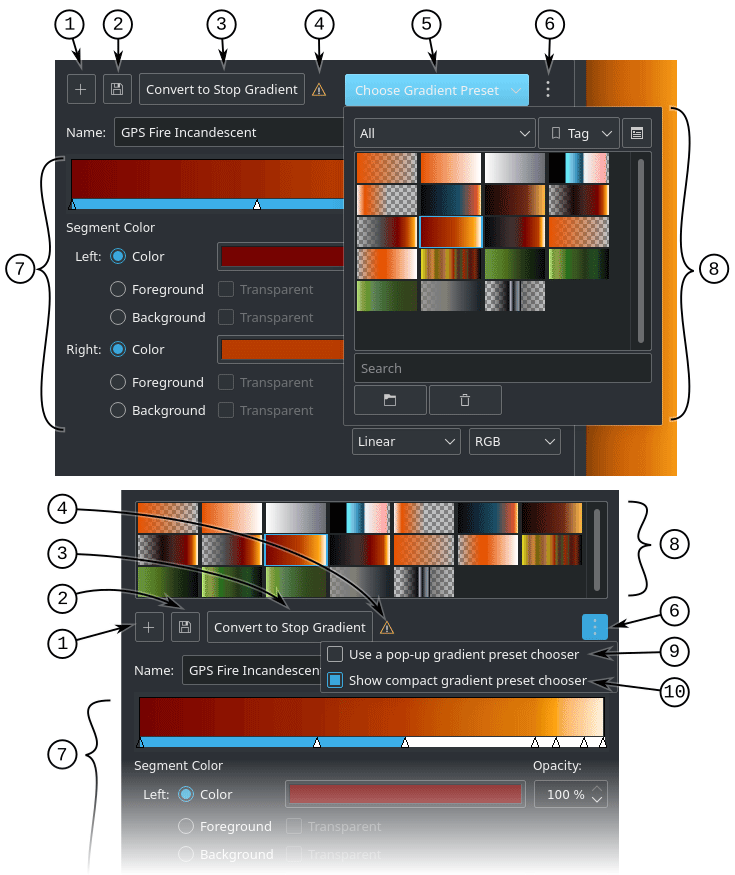
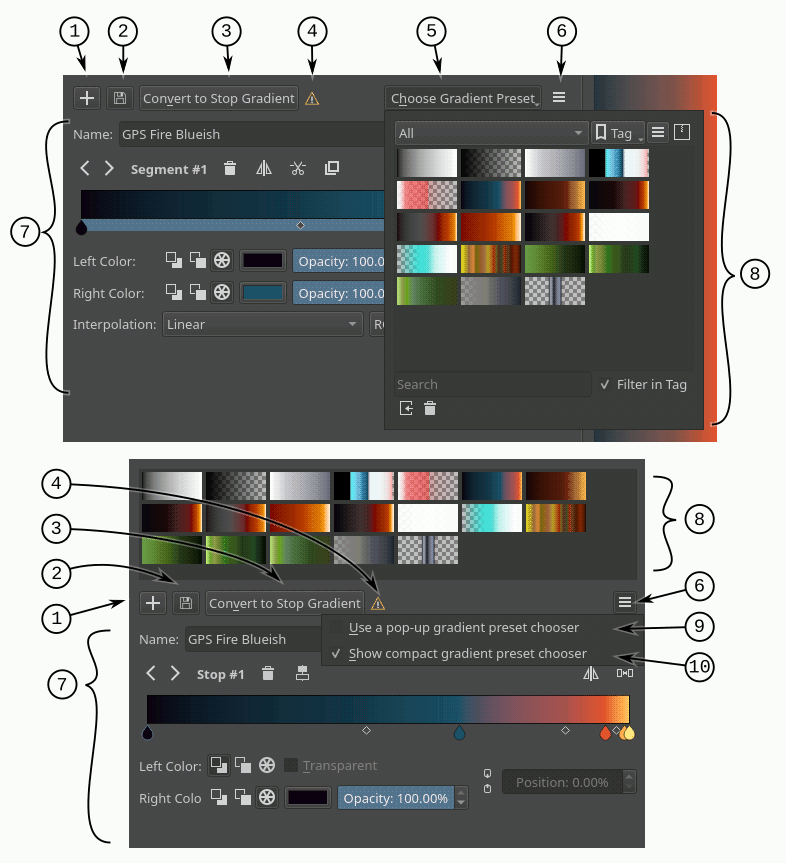
Update gradients page

diff --git a/reference_manual/resource_management/resource_gradients.rst b/reference_manual/resource_management/resource_gradients.rst
@@ -7,6 +7,7 @@
    :authors: - Wolthera van Hövell tot Westerflier <griffinvalley@gmail.com>
              - Scott Petrovic
              - Peter Schatz
+             - Deif Lou <ginoba@gmail.com>
    :license: GNU free documentation license 1.3 or later.
 
 .. index:: Resources, Gradients
@@ -51,85 +52,167 @@ You can make a new gradient by going into the drop-down and selecting the gradie
 Stop Gradients
 ~~~~~~~~~~~~~~
 
-.. image:: /images/gradients/Krita_stop_gradient.png
+Stop gradients are simply a list of *gradient stops*. A gradient stop has two properties associated with it: a position and a color.
+
+.. versionadded:: 4.4
+   Gradients can have stops that use the currently selected Foreground or Background colors. This makes them dynamic: if a gradient uses the Foreground or Background colors then changing those will also change the gradient appearance.
+
+Creating stop gradients is very straight forward. Following is a breakdown of the stop gradient editor:
+
+.. image:: /images/gradients/stop_gradient_editor_breakdown.png
    :align: center
 
-Stop gradients are very straight forward:
+1. **Name text field** - In this text field you can write a name for the gradient.
+2. **"Select stop" buttons** - With these arrow buttons you can select the previous or next stop.
+3. **Selected stop label** - This label shows the currently selected stop index.
+4. **"Delete stop" button** - With this button you can delete the currently selected stop.
+5. **Gradient slider** - This *slider* is the main part of the editor, where the gradient preview is shown and where you can perform some basic operations to change the gradient:
 
-* |mouseleft| on the gradient to add a stop.
-* |mouseleft| on the stops to select them, and drag to move them.
-* Drag stops outside of the bar (further than the way to the left or right) to remove them.
+   * |mouseleft| on the gradient to add a stop.
+   * |mouseleft| on the stop handles (the drop-shaped icons) to select a stop, and drag to move them.
+   * Drag the stop handles outside of the bar or press :kbd:`Delete` to remove the selected stop.
+   * Double-|mouseleft| on a stop handle or press :kbd:`Enter` to open a color dialog where you can choose the color of the stop.
+   * Use the |mousescroll| or the :kbd:`Left` and :kbd:`Right` keys to move the selected stop. If you also press :kbd:`Shift` the increment will be smaller.
+   * Use :kbd:`Ctrl` + |mousescroll| or :kbd:`Ctrl + Left` and :kbd:`Ctrl + Right` to select the previous or next stop.
 
-.. image:: /images/gradients/Krita_move_stop.png
-   :align: center
+6. **"Color type" buttons** - Whith these three buttons you can select the type of color used by the selected stop (Foreground, Background or custom).
+7. **"Color" button** - If the selected stop uses a custom color then you can use this button to open a color dialog and change the color.
+8. **"Flip gradient" button** - With this button you can reverse the order of the stops in the gradient.
+9. **"Sort stops by value" button** - Clicking this button will sort the stops by its value.
+10. **"Distribute stops evenly" button** - Clicking this button will space the stops leaving the same amount of space between them.
+11. **"Sort stops by hue" button** - Clicking this button will sort the stops by its hue.
+12. **"Opacity" slider** - If the selected stop uses a custom color then you can use this slider to change its opacity.
+13. **"Position" slider** - This slider allows to fine-tune the position of the selected stop.
 
-A selected stop can have its color and transparency changed using the color button and the opacity slider below.
+As per SVG spec, you can make a sudden change between stops by moving them close together. The stops will overlap, but you can still drag them around:
 
 .. image:: /images/gradients/Krita_stop_sudden_change.png
    :align: center
 
-As per SVG spec, you can make a sudden change between stops by moving them close together. The stops will overlap, but you can still drag them around.
-
-.. versionadded:: 4.4
-    Gradients can have stops that use the currently selected Foreground or Background colors
-
-.. image:: /images/gradients/Krita_Stop_Gradient_Editor_Popup.png
-
 Segmented Gradients
 ~~~~~~~~~~~~~~~~~~~~
 
-.. image:: /images/gradients/Krita_Editing_Custom_Gradient.png
+Segmented gradients are a list of *gradient segments*. A gradient segment has the following properties:
 
-Segmented gradients are a bit more tricky. Instead of going from color to color, it allows you to define segments, which each can have a begin and end color.
+* A start and end positions that denote where the segment is placed inside the gradient.
+* A start and end colors associated with the start and end positions.
 
-|mouseright| the gradient to call up this menu:
+   .. versionadded:: 4.4
+      Gradients can have segment endpoints that use the currently selected Foreground or Background colors, and those endpoints can be transparent. This makes them dynamic: if a gradient uses the Foreground or Background colors then changing those will also change the gradient appearance. These features allow full compatibility with GIMP gradients.
 
-.. image:: /images/gradients/Krita_segment_gradient_options.png
+* A blending strategy used to fill the segment inbetween the extreme colors. This strategy is formed by two different properties:
+
+   - A color model:
+
+      .. image:: /images/gradients/Krita_gradient_segment_color_model.png
+
+      1. **RGB** - Does the blending in RGB model.
+      2. **HSV clockwise** - Blends the two colors using the HSV model, and follows the hue clockwise (red-yellow-green-cyan-blue-purple). The above screenshot is an example of this.
+      3. **HSV counter-clock wise** - Blends the color as the previous options, but then counter-clockwise.
+
+   - An interpolation function used to determine how the colors should vary along the segment:
+
+      .. image:: /images/gradients/Krita_gradient_segment_blending.png
+
+      1. **Linear** - Does a linear blending between both extreme colors.
+      2. **Curved** - This causes the mix to ease-in and out faster. 
+      3. **Sine** - Uses a sine function. This causes the mix to ease in and out slower.
+      4. **Sphere, increasing** - This puts emphasis on the later color during the mix.
+      5. **Sphere, decreasing** - This puts emphasis on the first color during the mix.
+        
+* A segment middle position used to set where the *center* color obtained with the blending strategy should go. The visual effect is as if you stretched one half of the segment and squashed the other.
+
+   .. image:: /images/gradients/Krita_gradient_segment_mid_position.png
+
+The segmented gradient editor is very similar to the stop gradient editor. The main difference is that you can select three different types of handles to edit the gradient: segment, stop, and middle point handles. When selecting one of these handles the widgets around the gradient slider will change to reflect the actions that you can perform on that handle. For example, for a segment handle you can change the start and end colors (amongst other actions), but for a middle point handle you can only change its position.
+
+Following are a general breakdown and three specific breakdowns of the editor corresponding to the different user interfaces that are presented when the different handles are selected.
+
+General UI Breakdown
+   .. image:: /images/gradients/segment_gradient_editor_general_breakdown.png
+      :align: center
+
+   1. **Name text field** - In this text field you can write a name for the gradient.
+   2. **Select handle buttons** - With these arrow buttons you can select the previous or next handle.
+   3. **Selected handle label** - This label shows the currently selected handle index.
+   4. **Handle actions area** - In this area will appear some actions you can perform on the selected handle. They vary depending on the type of handle selected.
+   5. **"Flip gradient" button** - With this button you can reverse the order of the segments (and their start and end colors) in the gradient.
+   6. **"Distribute segments evenly" button** - Clicking this button will make all the segments have the same amount of space.
+   7. **Gradient slider** - This *slider* is the main part of the editor, where the gradient preview is shown and where you can perform some basic operations to change the gradient. These operations basicaly make changes to the different handles and are explained in the following sections. You can change the selected handle by pressing :kbd:`Ctrl` and using |mousescroll| or by pressing :kbd:`Ctrl + Left` and :kbd:`Ctrl + Right`.
+   8. **Handle properties area** - In this area will appear some widgets you can use to change the different properties of the selected handle.
+
+Segment Handle UI Breakdown
+
+   .. image:: /images/gradients/segment_gradient_editor_segment_handle_breakdown.png
+      :align: center
+
+   1. **"Delete segment" button** - Pressing this button will delete the selected segment (unless it is the only one).
+   2. **"Flip segment" button** - Pressing this button you can reverse the start and end colors of the selected segment as well as its middle point.
+   3. **"Split segment" button** - Pressing this button will divide the selected segment in two, using the segment middle point as the cutting position.
+   4. **"Duplicate segment" button** - Pressing this button will create a copy of the selected segment to its right.
+   5. **Gradient slider** - Here is a list of the segment related actions you can perform on the gradient slider:
+
+      * You can select a segment by |mouseleft| on an area of the slider where there is no stop handle (the drop-shaped icon) or middle point handle (the rhombus-shaped icon).
+      * You can move the whole segment by |mouseleft| and dragging on an area of the slider where there is no stop handle or middle point handle. You can also move the segment by using |mousescroll| or :kbd:`Left` and :kbd:`Right` and while doing that, if you also press :kbd:`Shift`, then the increment will be smaller. The first and last segments can not be moved.
+      * You can delete the selected segment by pressing :kbd:`Delete` or by dragging it outside the slider area.
+      * You can split a segment by pressing :kbd:`Ctrl` and |mouseleft| on it. The cutting point will be where you clicked.
+      * You can duplicate a segment by pressing :kbd:`Shift` and |mouseleft| on it.
+
+   6. **"Left color" area** - In this row of widgets you can change the properties related to the start of the segment:
+
+      * With the first three buttons you can set the type of color used (Foreground, Background or custom).
+      * Next to the color type buttons will appear a check box when the color type is Foreground or Background that you can use to stablish that the color should also be transparent. If the color type is custom, then instead a color button and an opacity slider will appear to let you choose a specific color.
+      * Lastly there is a position slider you can use to fine-tune the start position of the segment. This also changes the end position of the previous segment.
+
+   7. **"Right color" area** - In this row of widgets you can change the properties related to the end of the segment. They are pretty much the same as the ones explained in the previous point.
+   8. **"Interpolation" area** - In this row you can set the interpolation method and color model used to blend the colors inbetween the segment.
+
+Stop Handle UI Breakdown
+   Keep in mind that a segmented gradient is just a list of gradient segments. There isn't really a concept of *stop* associated with it. The stop handles are just a convention used in the editor to ease the editing of the gradient. When manipulating or changing the properties of a stop handle you are really modifying the end of the segment on the left and the start of the segment on the right synchronously. 
+
+   .. image:: /images/gradients/segment_gradient_editor_stop_handle_breakdown.png
+      :align: center
+
+   1. **"Delete stop" button** - Pressing this button will delete the selected stop. Under the hood this action will merge the left and right segments, keeping the start of the left segment and the end of the right segment.
+   2. **"Center stop" button** - Pressing this button will center the stop between the start position of the left segment and the end position of the right segment.
+   3. **Gradient slider** - Here is a list of the stop related actions you can perform on the gradient slider:
+
+      * You can select a stop handle by |mouseleft| on one of the drop-shaped icons.
+      * You can move the stop handle by |mouseleft| and dragging the drop-shaped icon. You can also move the stop handle by using |mousescroll| or :kbd:`Left` and :kbd:`Right` and while doing that, if you also press :kbd:`Shift`, then the increment will be smaller. The first and last stop handles can not be moved.
+      * You can delete the selected stop by pressing :kbd:`Delete` or by dragging it outside the slider area.
+      * You can create a new stop by pressing :kbd:`Ctrl` and |mouseleft| on an area of the slider where there is no stop handle or middle point handle. This is exactly the same action as splitting a segment.
+
+   4. **"Left Color" area** - In this row of widgets you can change the properties related to the end of the segment on the left of the stop:
+
+      * With the first three buttons you can set the type of color used (Foreground, Background or custom).
+      * Next to the color type buttons will appear a check box when the color type is Foreground or Background that you can use to stablish that the color should also be transparent. If the color type is custom, then instead a color button and an opacity slider will appear to let you choose a specific color.
+
+   5. **"Right color" area** - In this row of widgets you can change the properties related to the start of the segment on the right of the stop. They are pretty much the same as the ones explained in the previous point.
+   6. **"Link colors" button** - If this button is checked then changing the properties on the *left color" area will also change the properties on the *right color* area and viceversa. Check it if you want the two colors to be synchronized.
+   7. **"Position" slider** - you can use this slider to fine-tune the position of the stop. This cahnges the end position of the segment on the left and the start position of the segment on the right.
+
+Middle Point Handle UI Breakdown
+
+   .. image:: /images/gradients/segment_gradient_editor_midpoint_handle_breakdown.png
+      :align: center
+
+   1. **"Center middle point" button** - Pressing this button will center the middle point of the selected segment.
+   2. **Gradient slider** - Here is a list of the middle point related actions you can perform on the gradient slider:
+
+      * You can select a segment middle point by |mouseleft| on one of the rhombus-shaped icons.
+      * You can move the middle point by |mouseleft| and dragging the rhombus-shaped icon. You can also move it by using |mousescroll| or :kbd:`Left` and :kbd:`Right` and while doing that, if you also press :kbd:`Shift`, then the increment will be smaller.
+
+   3. **"Position" slider** - With this slider you can fine-tune the position of the middle point of the segment.
+
+Compact Gradient Editors
+~~~~~~~~~~~~~~~~~~~~~~~~
+In some places in the GUI a compact version of the gradient editors may be used because of the lack of space or other reasons. They just show the gradient slider and all the other functionality that is exposed in the non-compact mode is compacted and moved to the side.
+
+.. image:: /images/gradients/compact_stop_gradient_editor.png
    :align: center
-
-Split Segment
-    This splits the current segment in two, using the white arrow, the segment middle as the place to split. It will also use the color at the white arrow to define the new colors in place in the new segments.
-Duplicate segment
-    Similar to split, but instead the two new segments are copies of the old one.
-Mirror segment
-    Mirrors the segment colors.
-Remove segment
-    Removes the segment.
-
-|mouseleft| + dragging the black arrows will resize the segments attaching to those arrows. |mouseleft| + dragging the white arrows will change the mid point of that segment, changing the way how the mixture is made.
-
-At the bottom, you can set the color and transparency of either part of the segment.
-
-You can also set the blending. The first is the interpolation mode:
-
-.. image:: /images/gradients/Krita_gradient_segment_blending.png
-   :align: center
-
-#. Linear - Does a linear blending between both segments.
-#. Curved - This causes the mix to ease-in and out faster. 
-#. Sine - Uses a sine function. This causes the mix to ease in and out slower.
-#. Sphere, increasing - This puts emphasis on the later color during the mix.
-#. Sphere, decreasing - This puts emphasis on the first color during the mix.
-
-Finally, there's the model:
-
-.. image:: /images/gradients/Krita_gradient_hsv_cw.png
-   :align: center
-
-RGB
-    Does the blending in RGB model.
-HSV clockwise
-    Blends the two colors using the HSV model, and follows the hue clockwise (red-yellow-green-cyan-blue-purple). The above screenshot is an example of this.
-HSV counter-clock wise.
-    Blends the color as the previous options, but then counter-clockwise.
-    
-.. versionadded:: 4.4
-    Gradients can have segment endpoints that use the currently selected Foreground or Background colors, and those endpoints can be transparent.  These features allow full compatibility with GIMP gradients.
-
-.. image:: /images/gradients/Krita_Segment_Gradient_Editor_Popup.png
 
 Generic Gradient Editor
------------------------
+~~~~~~~~~~~~~~~~~~~~~~~
 In some places you will find that the previously mentioned gradient preset
 chooser and editors are shown together and that they are interconnected. When
 this happens, you are probably using the generic gradient editor, that was
@@ -147,6 +230,7 @@ It's main features are:
 Following is a breakdown of the interface of the editor:
 
 .. image:: /images/gradients/generic_gradient_editor_breakdown.png
+   :align: center
 
 1. **Add gradient button** - Pressing this button you can add the current gradient to
    the resources.
@@ -164,7 +248,7 @@ Following is a breakdown of the interface of the editor:
    chooser to let you choose a gradient and edit it. This button is only
    available if the "use a pop-up gradient preset chooser" is checked.
 6. **Options button** - Pressing this button will show an options menu.
-7. Specific editor area. Here the stop or segmented gradient editor will be
+7. **Specific editor area** - Here the stop or segmented gradient editor will be
    shown when a gradient is selected. The specific gradient editors are
    documented in the previous sections.
 8. **Gradient preset chooser** - This widget shows a collection of gradient resources
